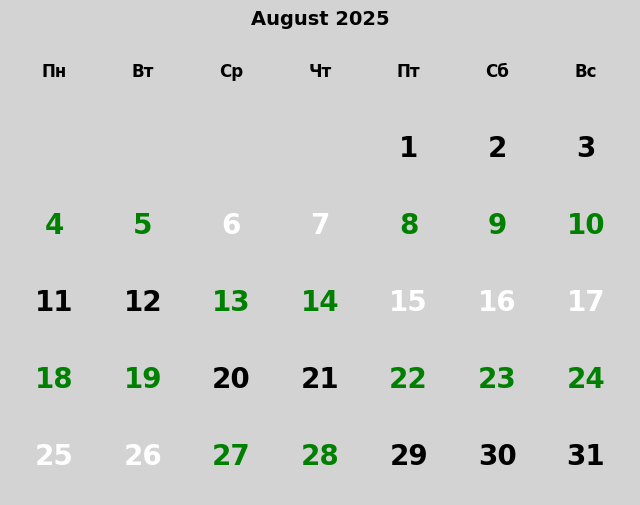
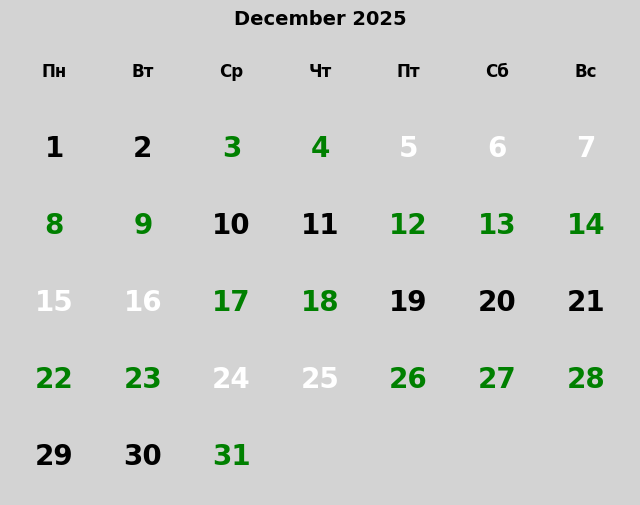
Implementation of the database code (LVL1)

diff --git a/multi-bot/main.py b/multi-bot/main.py
@@ -22,7 +22,6 @@ commands = [
     BotCommand(command="go", description="Запустить игру"),
     BotCommand(command="discord", description="Настройка запуска Discord"),
     BotCommand(command="myid", description="Мой id"),
-
 ]
 
 
@@ -62,9 +61,6 @@ def run_game_wot():
         os.system(r'C:\Games\World_of_Tanks_EU\wgc_api.exe --open')
 
 
-# Функция переключения состояния запуска дискорд
-
-
 async def next_kb(message: Message):
     await message.answer(text="Какую игру запустить", reply_markup=await kb.inline_game())
 
@@ -86,7 +82,7 @@ async def start_command(message: Message):
         await message.delete()
 
 
-    # Обработчик команды /discord
+# Обработчик команды /discord
 @dp.message(Command('discord'))
 async def on_discord(message: Message):
     if message.from_user.id == 5409293287:
@@ -115,7 +111,6 @@ async def bot_db(message: Message):
                  f"🔹ID: {row[3]}\n"
                  f"🔹Name: {message.from_user.first_name} "
         )
-
 
 
 # Ожидание колбэка который начинается на id_
@@ -148,6 +143,7 @@ async def process_discord_callback(callback_query: CallbackQuery):
     await callback_query.answer(f"Вы нажали: {callback_data}")
     await next_kb(callback_query.message)
     #os.system('taskkill /f /im chrome.exe')
+
 
 # Ожидание колбэка discord_off
 @dp.callback_query(F.data =='discord_off')
@@ -216,7 +212,6 @@ async def press_month(callback_query: CallbackQuery):
     chat_id = callback_query.message.chat.id
     message_id = callback_query.message.message_id
     await bot.delete_message(chat_id, message_id)
-
 
 
 # Запуск бота

diff --git a/multi-bot/bd_config.py b/multi-bot/bd_config.py
@@ -1,0 +1,14 @@
+import sqlite3
+
+# Подключение к базе данных (или создание новой, если она не существует)
+with sqlite3.connect('example.db') as conn:
+    # Создание курсора для выполнения SQL-запросов
+    cursor = conn.cursor()
+
+    # Сохранение изменений
+    conn.commit()
+
+    # Выборка данных
+    cursor.execute("SELECT * FROM users")
+    rows = cursor.fetchall()
+
